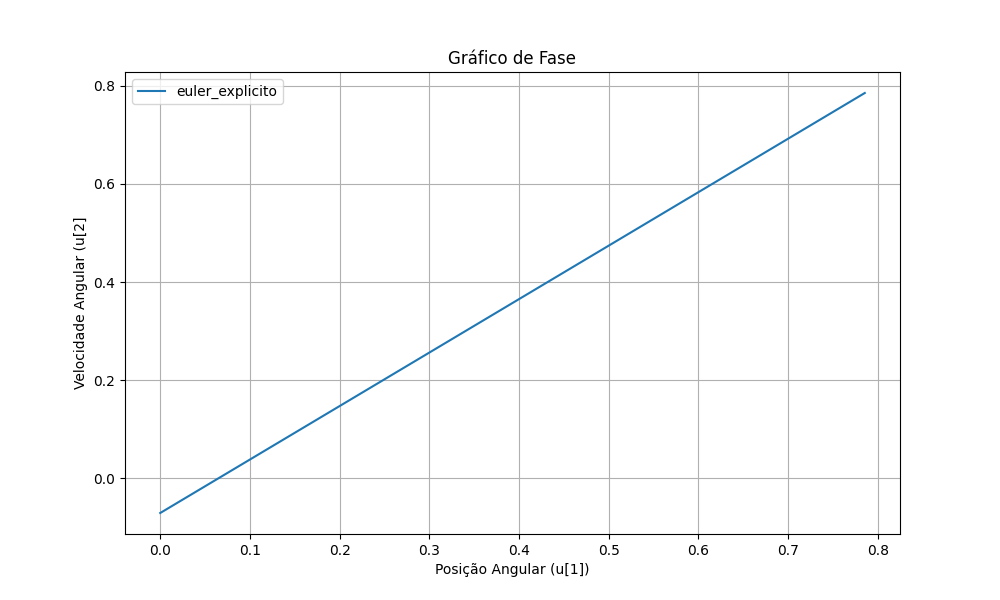
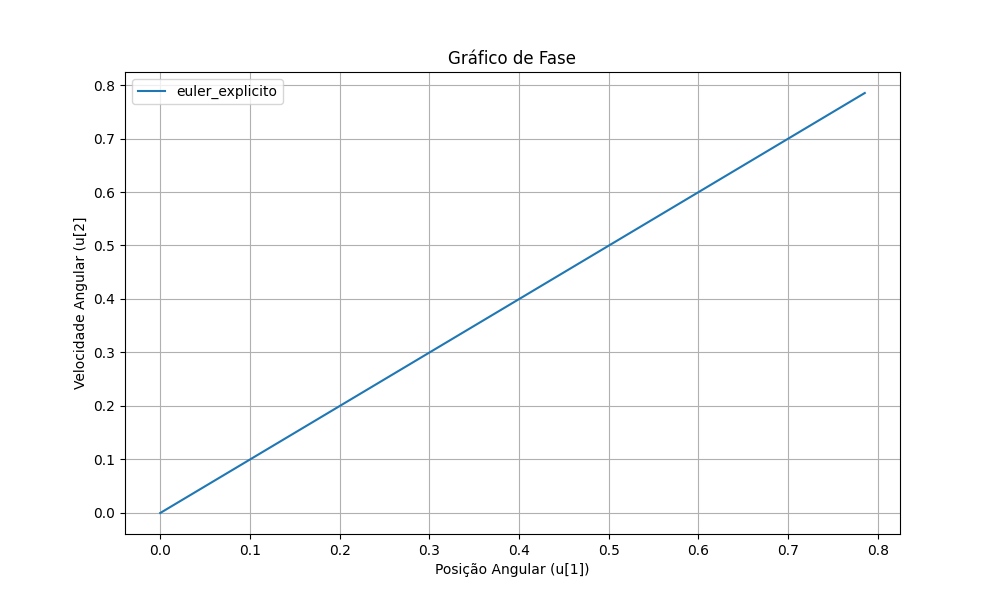
duvidas sobre AB2

diff --git a/02/Metodos.py b/02/Metodos.py
@@ -32,10 +32,10 @@ class Metodos:
 
         # self.tempos_execucao()
 
-        # for i in self.metodos_dict.keys():
-        #     self.plot_vel_pos(i)
-        #     self.erros_metodos(self.metodos_dict[i], i)
-        #     self.plot_grafico_fase(self.metodos_dict[i], i)
+        for i in self.metodos_dict.keys():
+            self.plot_vel_pos(i)
+            self.erros_metodos(self.metodos_dict[i], i)
+            self.plot_grafico_fase(self.metodos_dict[i], i)
 
         return
 
@@ -420,6 +420,3 @@ class Metodos:
         plt.close()
 
         return
-
-    def cuzinho():
-        pass

diff --git a/02/main.py b/02/main.py
@@ -5,10 +5,8 @@ t0 = 0
 # Condição inicial u(0) = [u1(0), u2(0)]
 u0 = np.array([np.pi/4, 0])
 # Tamanho do passo
-h = 0.01
+h = 0.001
 # Número de passos
-num_passos = 300
+num_passos = 100
 
 metodos = Metodos(t0, u0, h, num_passos)
-
-metodos.print_resultados()
